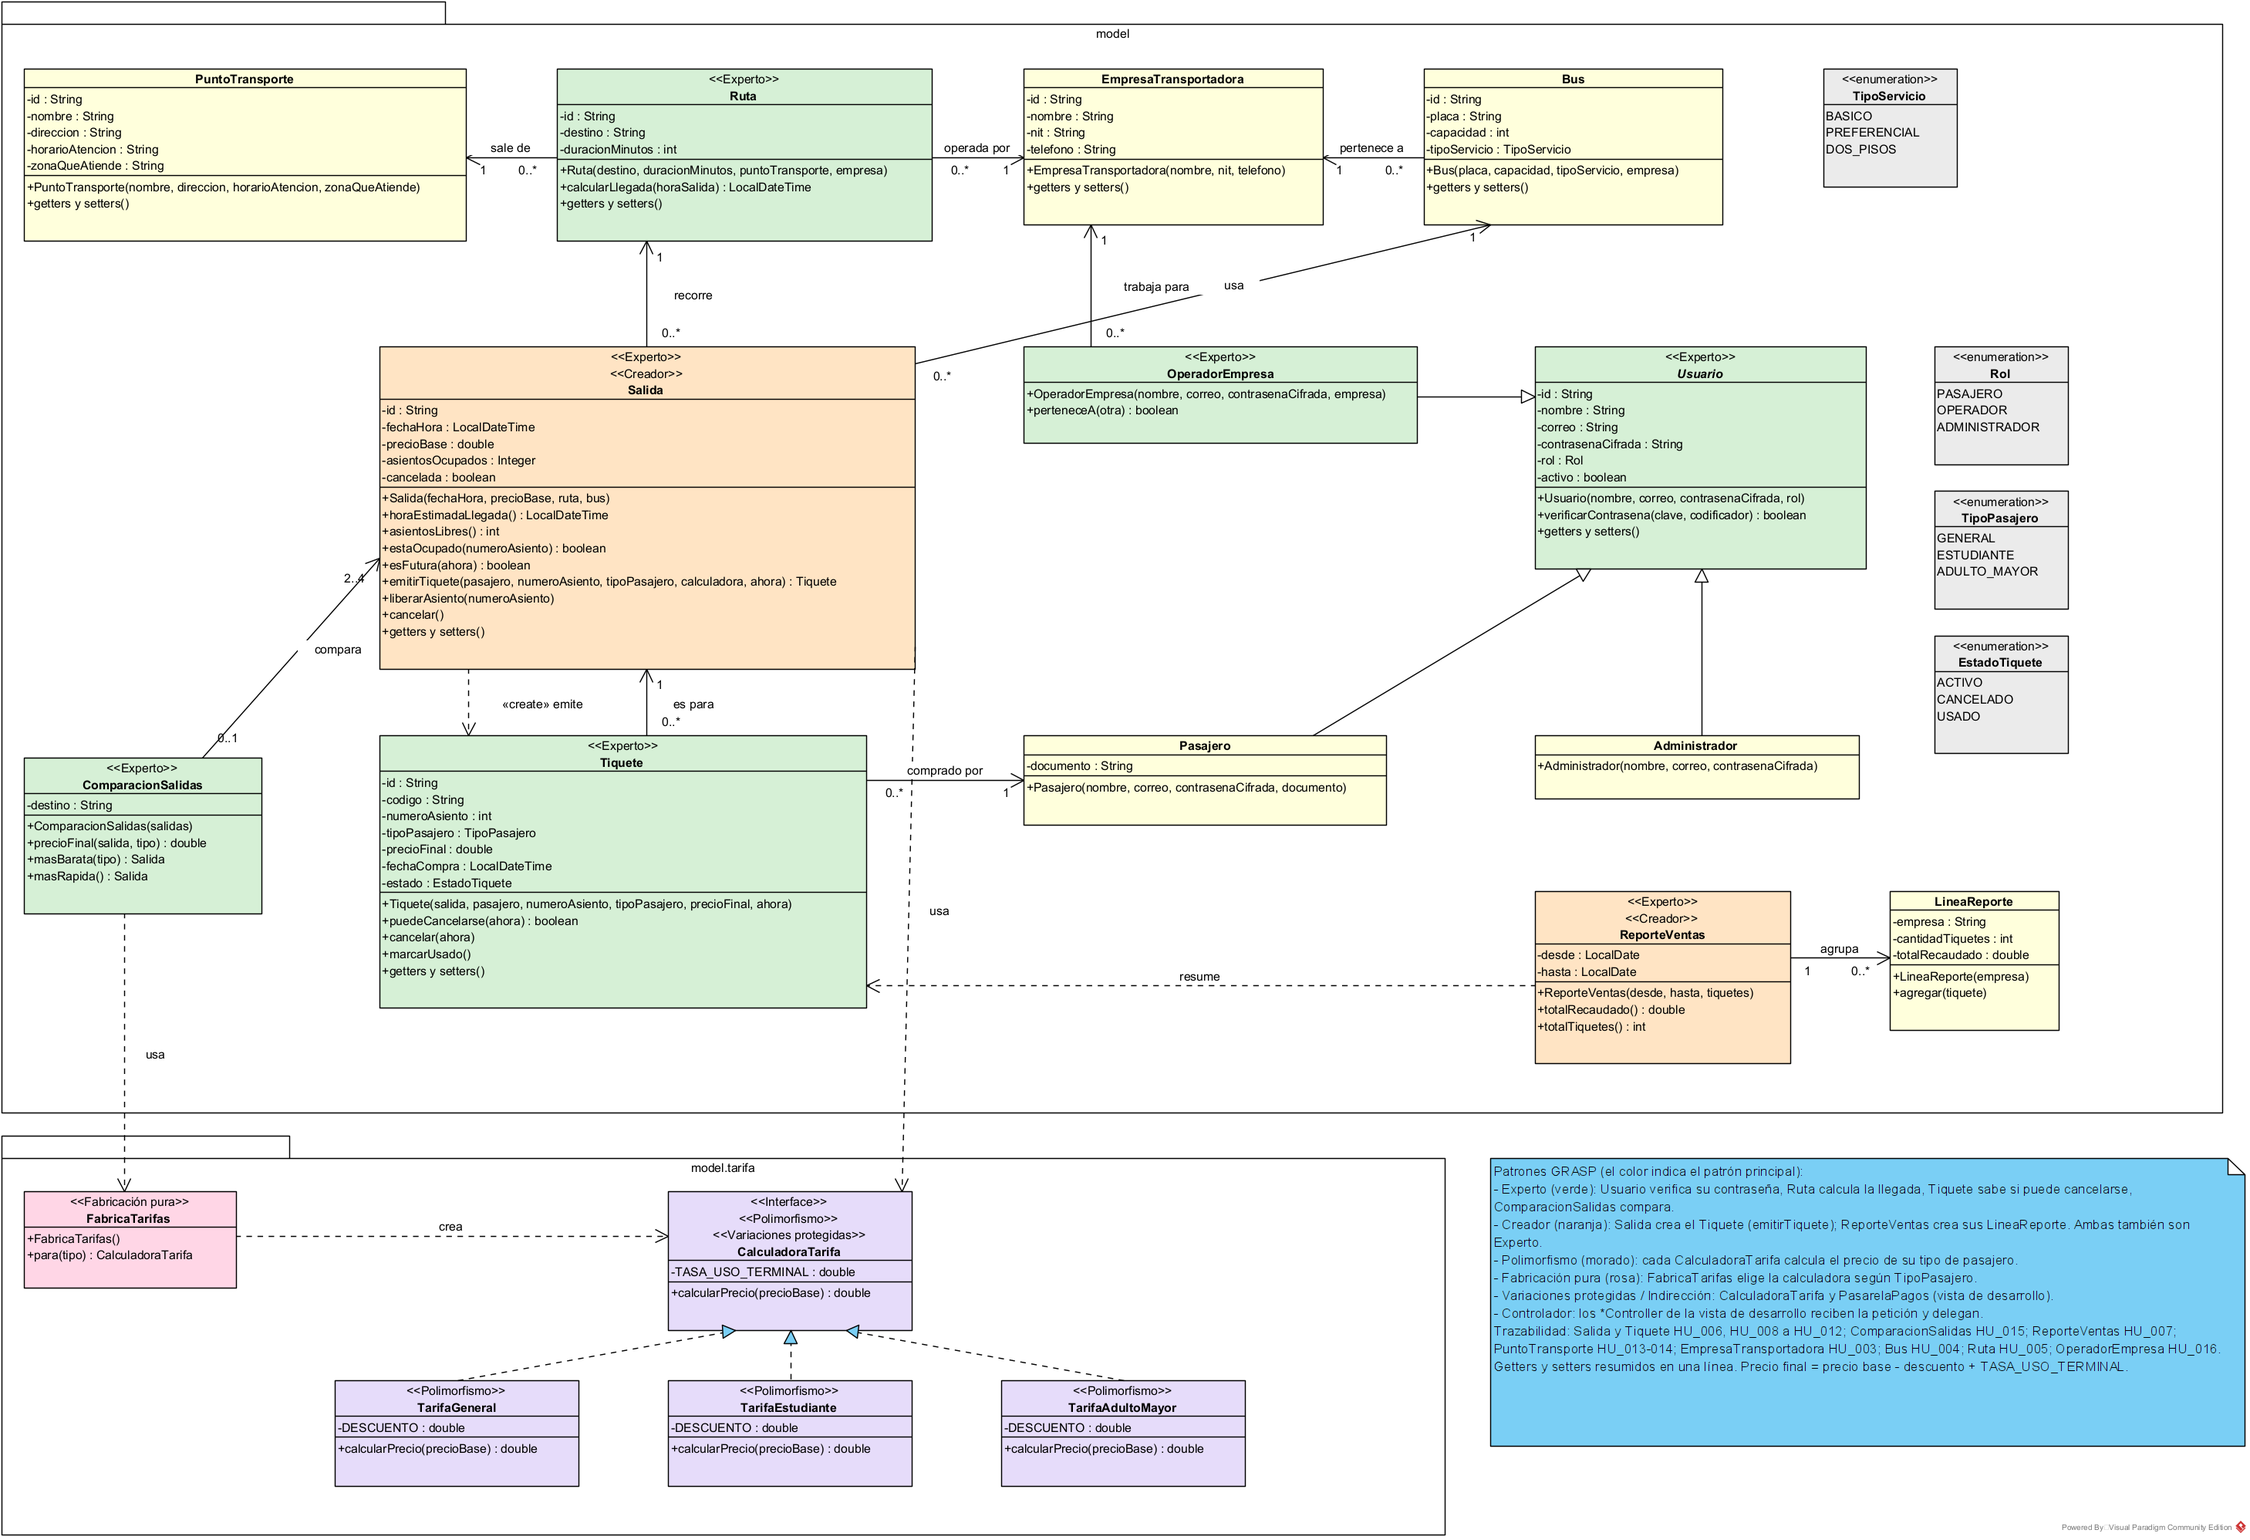
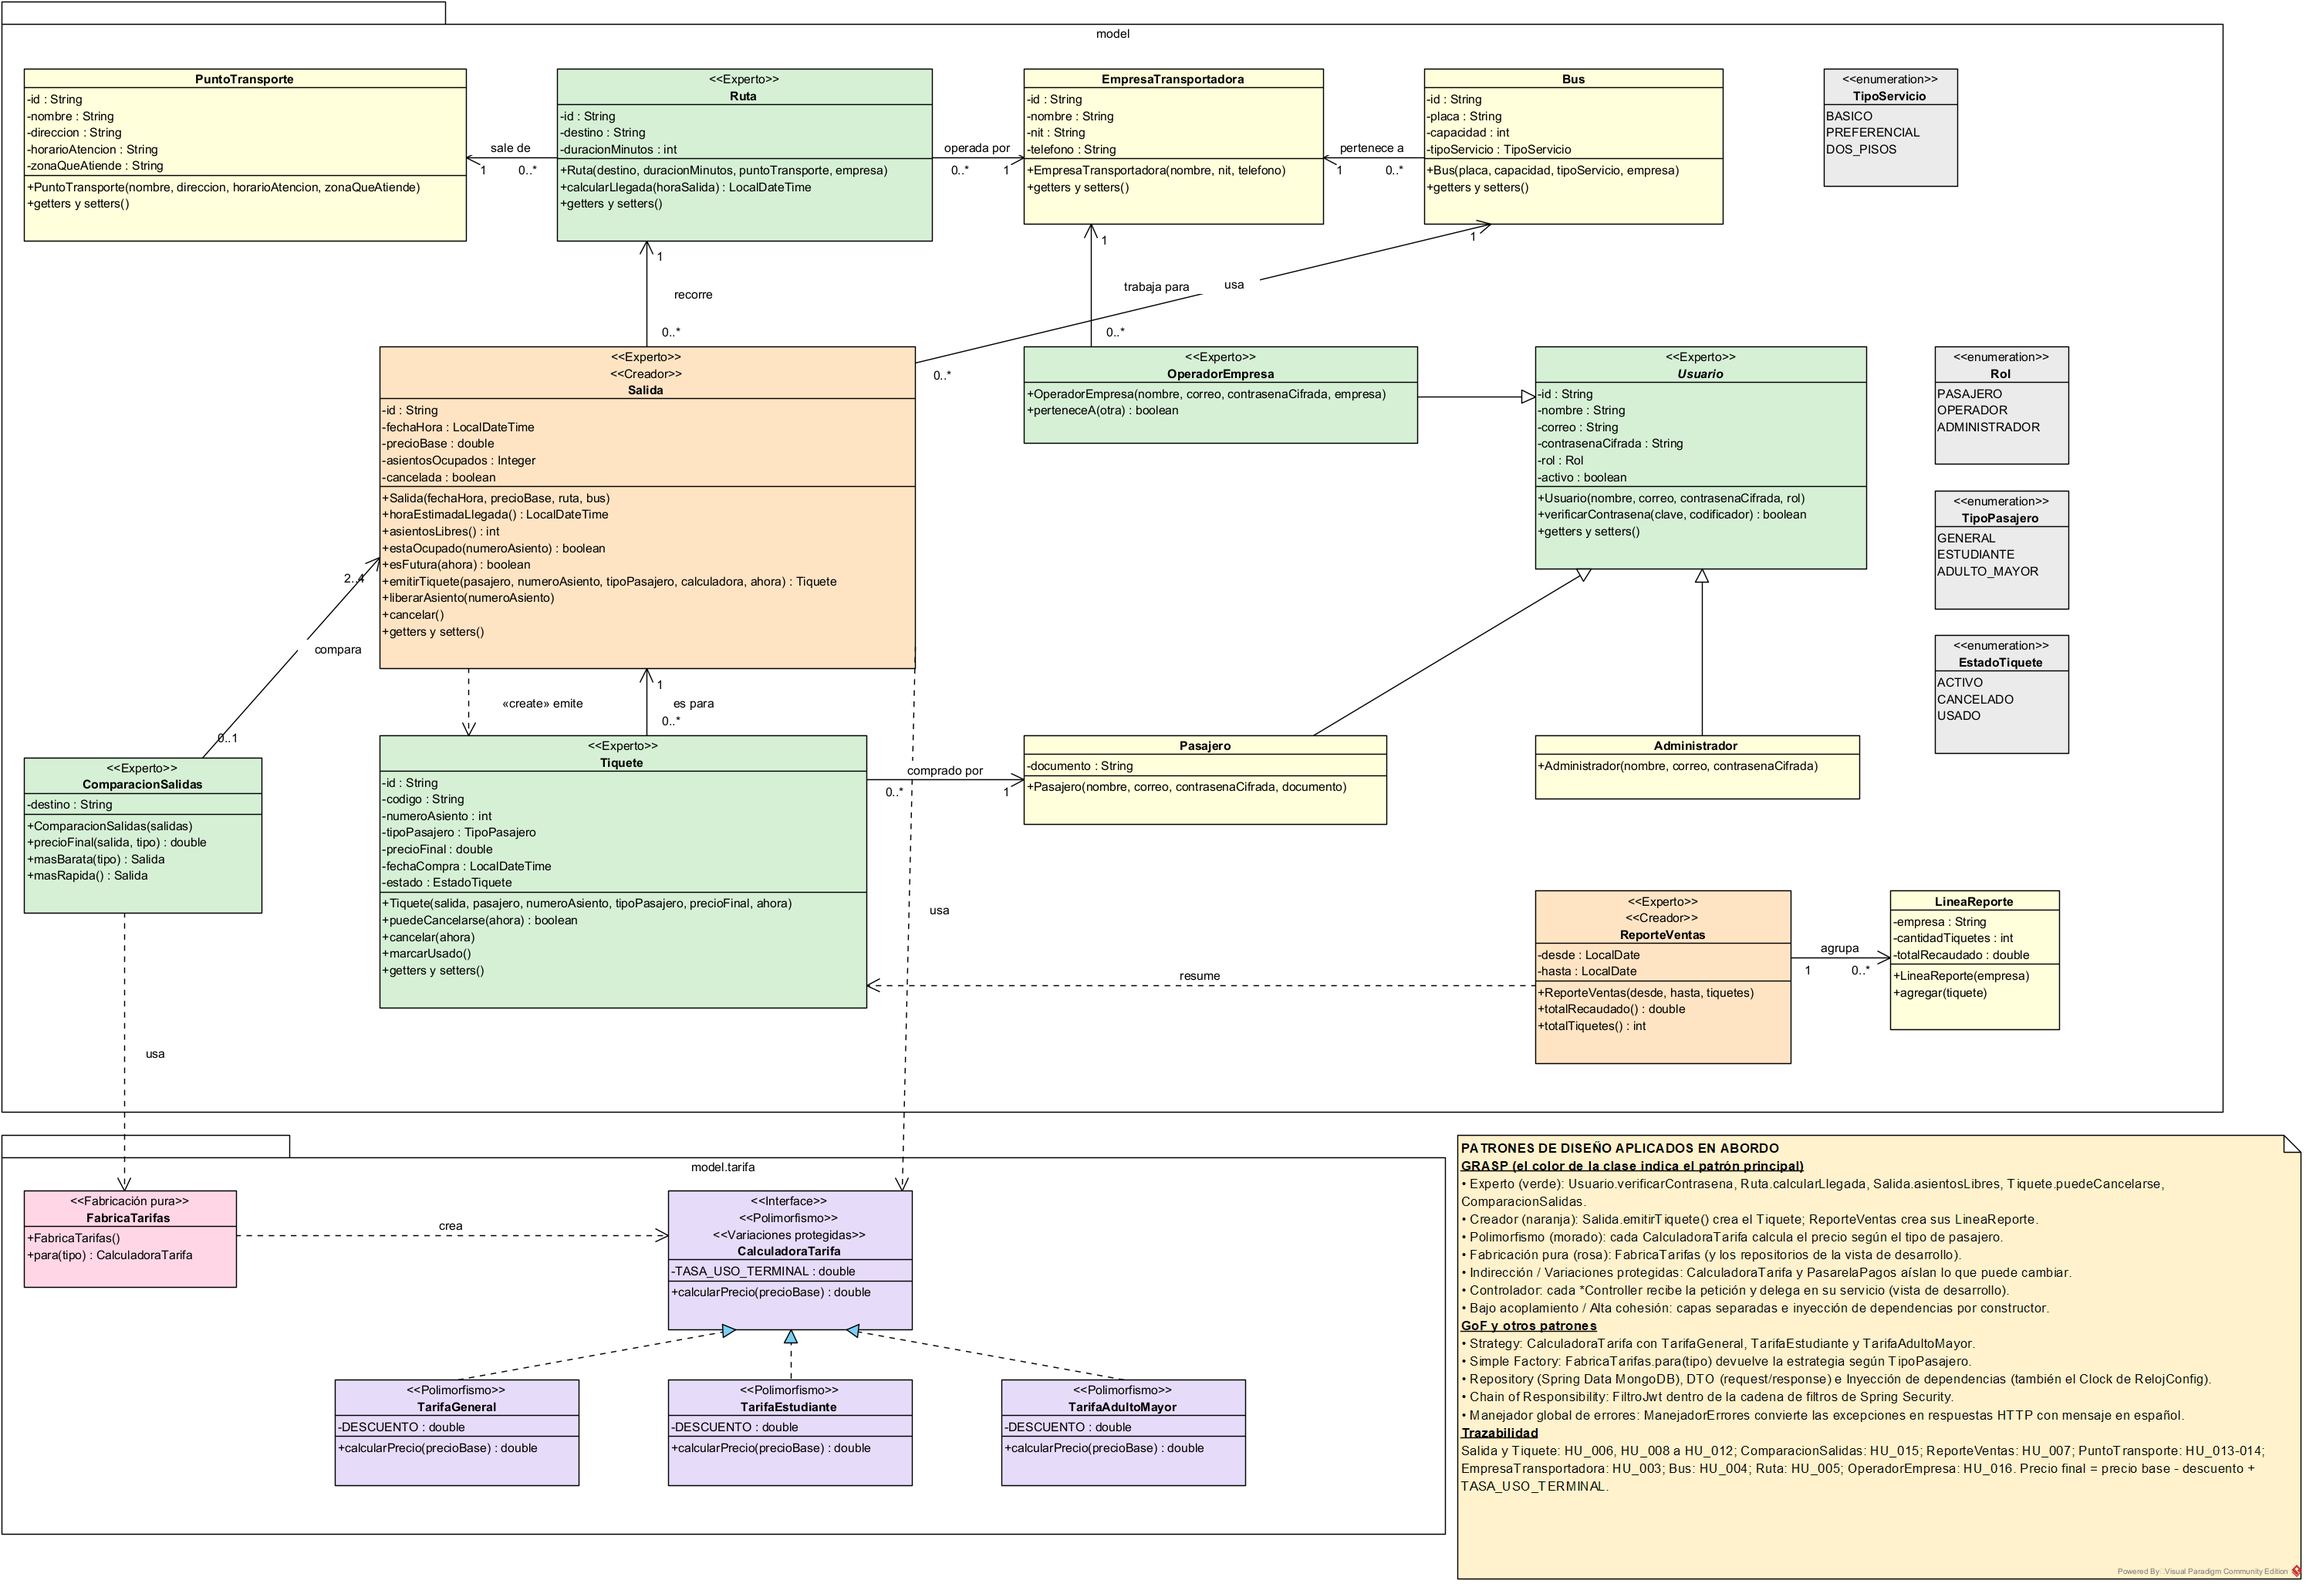
Rehace la vista funcional con componentes del backend, puertos, delegate y actores; nota de patrones en la vista lógica

diff --git a/diagramas/README.md b/diagramas/README.md
@@ -5,8 +5,8 @@ Hechos en Visual Paradigm Community Edition. Cada diagrama sale de las historias
 | Diagrama | Archivo | Qué muestra | Trazabilidad |
 |---|---|---|---|
 | Contexto (nivel 0) | [vista-contexto.png](vista-contexto.png) | Abordo como un solo proceso con sus 5 actores externos: Visitante, Pasajero, Operador de empresa, Administrador y Pasarela de pagos | HU_001 a HU_016 (nota en el diagrama) |
-| Vista funcional (componentes) | [vista-funcional.png](vista-funcional.png) | Interfaces que ofrece el sistema por funcionalidad | RF_001 a RF_018 |
-| Vista lógica (clases del dominio) | [vista-logica.png](vista-logica.png) | Clases de `com.abordo.model` y `model.tarifa`, asociaciones con multiplicidad, herencia de Usuario y patrones GRASP resaltados por color | HU_003 a HU_016 |
+| Vista funcional (componentes) | [vista-funcional.png](vista-funcional.png) | Subsistema «subsystem» Abordo con 12 componentes alineados al backend (Autenticación y Seguridad, Puntos, Empresas, Operadores, Buses, Rutas, Salidas y Búsqueda, Cálculo de Tarifas, Venta de Tiquetes, Integración de Pagos, Reportes, Persistencia), puertos, interfaces provistas/requeridas (ball-and-socket), conectores «delegate» en la frontera, los 4 actores humanos y los sistemas externos Pasarela de pagos y MongoDB Atlas | Nota de trazabilidad componente → HU_001 a HU_016 y RF_001 a RF_018 |
+| Vista lógica (clases del dominio) | [vista-logica.png](vista-logica.png) | Clases de `com.abordo.model` y `model.tarifa`, asociaciones con multiplicidad, herencia de Usuario, patrones GRASP resaltados por color y una nota con todos los patrones GRASP y GoF | HU_003 a HU_016 |
 | Vista de desarrollo (tres capas) | [vista-desarrollo.png](vista-desarrollo.png) | Paquetes Presentacion_Controller, Negocio_Service, Datos_Repository y Modelo_de_Dominio, con las clases reales del backend | Todas las HU |
 | Vista de despliegue | [vista-despliegue.png](vista-despliegue.png) | Navegador, Vercel, Render (Docker), MongoDB Atlas y GitHub | RNF de disponibilidad y despliegue |
 | Secuencia: comprar tiquete | [secuencia-comprar-tiquete.png](secuencia-comprar-tiquete.png) | Flujo de compra con asiento ocupado (409), pago rechazado (402) y compra exitosa (201) | HU_010 |
